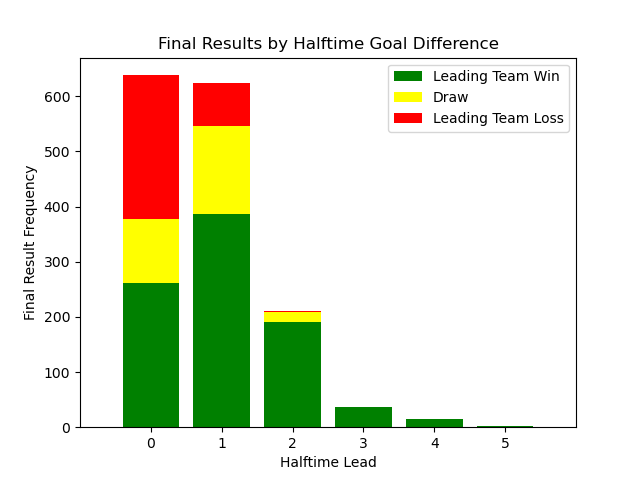
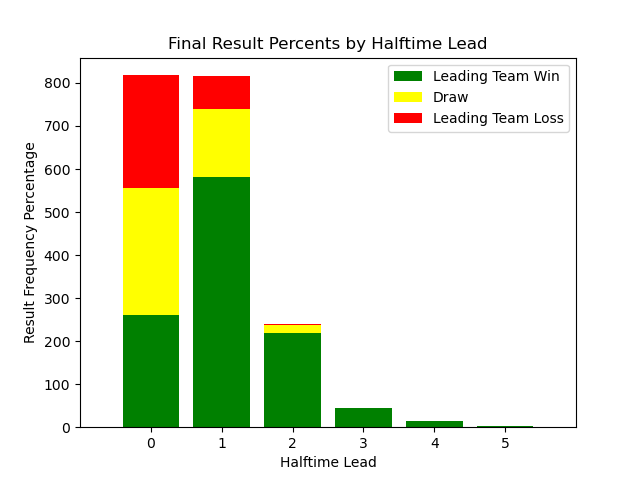
Variety of changes to lead analysis code including:     -Fixed bug causing games scoreless after halftime to be excluded     from counting     -Improved documentation     -Refactored main match parsing for readability     -Added argument parsing for competitions and percentage adjustment

diff --git a/lead-analysis.py b/lead-analysis.py
@@ -1,19 +1,44 @@
 import json
 import matplotlib.pyplot as plt
 import numpy as np
+import argparse
 from collections import defaultdict
 
+#Helper class to store each goal's set of of information
 class Goal:
-    def __init__(self,teamId,period,time):
+    def __init__(self,teamId,period,time): #Initialize goal
         self.team=teamId
         self.period=period
         self.time=time
     
-    def update_prev_goals(self,team_id1,team_id2,team1_goals,team2_goals):
+    def update_prev_goals(self,team_id1,team_id2,team1_goals,team2_goals): #Update goal with the score before the goal occurred
         self.prev_goals={}
         self.prev_goals[team_id1]=team1_goals
         self.prev_goals[team_id2]=team2_goals
+    
+#Helper method to update halftime counts 
+def update_counts(goal_record, team_1, team_2, half_time_lead_count,half_time_leading_team_win_count,half_time_draw_count,half_time_leading_team_loss_count, winner):
+    deficit = goal_record[team_1] - goal_record[team_2] #Calculate deficit and leading team
+    if deficit > 0:
+        leading_team=team_1
+    elif deficit < 0:
+        leading_team=team_2
+    else:
+        leading_team=-1
 
+    half_time_lead_count[abs(deficit)]+=1
+
+    if winner == leading_team: #Assign halftime statistics appropriately
+        half_time_leading_team_win_count[abs(deficit)]+=1
+    elif int(winner) == 0:
+        half_time_draw_count[abs(deficit)]+=1
+    elif deficit != 0:
+        half_time_leading_team_loss_count[abs(deficit)]+=1
+    else:
+        half_time_leading_team_loss_count[0]+=1
+        half_time_leading_team_win_count[0]+=1
+
+#Main method to parse the goals/match results of a specific competition
 def parse_match_results(competition):
     events = open(f'events_line_breaks/events_{competition}.json','r')   
     matches_file = open(f'matches_line_breaks/matches_{competition}.json','r')
@@ -21,6 +46,7 @@ def parse_match_results(competition):
     goals=defaultdict(list)
     matches={}
 
+    #Initialize matches (including competiting teams and the winner)
     cl=matches_file.readline()
     while(cl):
         curr_line=json.loads(cl)
@@ -31,63 +57,52 @@ def parse_match_results(competition):
         
         cl=matches_file.readline()
 
-
+    #Store each goal in the correct match
     cl=events.readline()
-
     while(cl):
         curr_line=json.loads(cl)
 
-        if curr_line['eventId'] != 9:
-            if sum(1 for x in curr_line['tags']  if x['id']==101) > 0:
+        if curr_line['eventId'] != 9: #Exclude save attempts that have goal tag
+            if sum(1 for x in curr_line['tags']  if x['id']==101) > 0: #Normal goal
                 goals[curr_line['matchId']].append(Goal(curr_line['teamId'],curr_line['matchPeriod'],curr_line['eventSec']))
-            elif sum(1 for x in curr_line['tags']  if x['id']==102) > 0:
+            elif sum(1 for x in curr_line['tags']  if x['id']==102) > 0: #Own goal (swap team)
                 team=int(next(x for x in matches[curr_line['matchId']]['teams'] if x != str(curr_line['teamId'])))
                 goals[curr_line['matchId']].append(Goal(team,curr_line['matchPeriod'],curr_line['eventSec']))
 
         cl=events.readline()
 
+    #Initialize metrics for halftime deficit
     half_time_leading_team_win_count=[0]*10
     half_time_leading_team_loss_count=[0]*10
     half_time_draw_count=[0]*10
     half_time_lead_count=[0]*10
-    
+
+    #Loop over matches to fill goalscoring data for each team
     for match in matches.keys():
         goal_record={}
         
-        team_1=matches[match]['teams'][0]
+        team_1=matches[match]['teams'][0] 
         team_2=matches[match]['teams'][1]
         
         goal_record[team_1]=0
         goal_record[team_2]=0
         
+        #Loop over each goal in each match to find the halftime score
         past_half=False
         for goal in goals[match]:
-            if not past_half and goal.period !='1H':
+            if not past_half and goal.period !='1H': #First goal past half 
                 past_half=True
-                deficit = goal_record[team_1] - goal_record[team_2]
-                if deficit > 0:
-                    leading_team=team_1
-                elif deficit < 0:
-                    leading_team=team_2
-                else:
-                    leading_team=-1
+                update_counts(goal_record, team_1, team_2, half_time_lead_count,half_time_leading_team_win_count,
+                half_time_draw_count,half_time_leading_team_loss_count, str(matches[match]['winner']))
 
-                half_time_lead_count[abs(deficit)]+=1
-
-                if str(matches[match]['winner']) == leading_team:
-                    half_time_leading_team_win_count[abs(deficit)]+=1
-                elif int(matches[match]['winner']) == 0:
-                    half_time_draw_count[abs(deficit)]+=1
-                elif deficit != 0:
-                    half_time_leading_team_loss_count[abs(deficit)]+=1
-                else:
-                    half_time_leading_team_loss_count[0]+=1
-                    half_time_leading_team_win_count[0]+=1
-
-            goal.update_prev_goals(team_1,team_2,goal_record[team_1],goal_record[team_2])
+            goal.update_prev_goals(team_1,team_2,goal_record[team_1],goal_record[team_2]) #Updates goal objects
             goal_record[str(goal.team)]+=1
+        
+        if not past_half: #First goal past half 
+            update_counts(goal_record, team_1, team_2, half_time_lead_count,half_time_leading_team_win_count,
+            half_time_draw_count,half_time_leading_team_loss_count, str(matches[match]['winner']))
 
-    half_time_leading_team_win_count[0]=int(half_time_leading_team_win_count[0]/2)
+    half_time_leading_team_win_count[0]=int(half_time_leading_team_win_count[0]/2) #Corrects for matches tied at halftime
     half_time_leading_team_loss_count[0]=int(half_time_leading_team_loss_count[0]/2)
     loss_base=[a+b for a, b in zip(half_time_leading_team_win_count,half_time_draw_count)]
 
@@ -95,13 +110,27 @@ def parse_match_results(competition):
 
 if __name__ == '__main__':
 
-    competitions=['Spain', 'England', 'France','Germany','Italy','World_Cup','European_Championship']
+    #Setup argument parsing
+    parser=argparse.ArgumentParser(description='Generate a variety of graphics centered around the halftime lead of specific games')
+    parser.add_argument('-A','--percentage_adjust',required=False,nargs=1, default='False', choices=['True','False'])
+    parser.add_argument('-C','--competitions',required=False,nargs='*',default='all',
+    choices=['Spain', 'England', 'France','Germany','Italy','World_Cup','European_Championship'])
+    args = parser.parse_args()
+
+    #Choose competitions based on arguments
+    if args.competitions == 'all':
+        competitions=['Spain', 'England', 'France','Germany','Italy','World_Cup','European_Championship']
+    else:
+        competitions=args.competitions
+    
+    #Initialize metrics
     half_time_leading_team_win_count=[0]*10
     half_time_draw_count=[0]*10
     half_time_leading_team_loss_count=[0]*10
     half_time_lead_count=[0]*10
     loss_base=[0]*10
 
+    #Loop over competitions, aggregating results for each competition into overall results
     for competition in competitions:
         temp_wins,temp_draws,temp_loss,temp_count,temp_base=parse_match_results(competition)
         loss_base=[a+b for a, b in zip(temp_base,loss_base)]
@@ -115,25 +144,26 @@ if __name__ == '__main__':
     print(half_time_leading_team_loss_count)
     print(half_time_lead_count)
 
-    for i in range(10):
-        if half_time_lead_count[i] > 0:
-            half_time_leading_team_win_count[i]/=half_time_lead_count[i]
-            half_time_draw_count[i]/=half_time_lead_count[i]
-            half_time_leading_team_loss_count[i]/=half_time_lead_count[i]
-            loss_base[i]/=half_time_lead_count[i]
+    #Adjust raw win numbers relative to total number if applicable
+    if args.percentage_adjust[0]=='True':
+        for i in range(10):
+            if half_time_lead_count[i] > 0:
+                half_time_leading_team_win_count[i]/=half_time_lead_count[i]
+                half_time_draw_count[i]/=half_time_lead_count[i]
+                half_time_leading_team_loss_count[i]/=half_time_lead_count[i]
+                loss_base[i]/=half_time_lead_count[i]
 
-    N=10
+    #Place bars on graph
     x=np.arange(10)
-
     plt.bar(x, half_time_leading_team_win_count, color='green')
     plt.bar(x, half_time_draw_count, bottom=half_time_leading_team_win_count, color='yellow')
     plt.bar(x, half_time_leading_team_loss_count, bottom=loss_base, color='red')
 
+    #Draw graph with labels/legend/etc.
     plt.legend(labels=['Leading Team Win','Draw','Leading Team Loss'])
     plt.xticks(np.arange(start=0,stop=6))
     plt.xlabel('Halftime Lead')
     plt.ylabel('Result Frequency Percentage')
     plt.title('Final Result Percents by Halftime Lead')
-
     plt.xlim([-1,6])
     plt.show()
